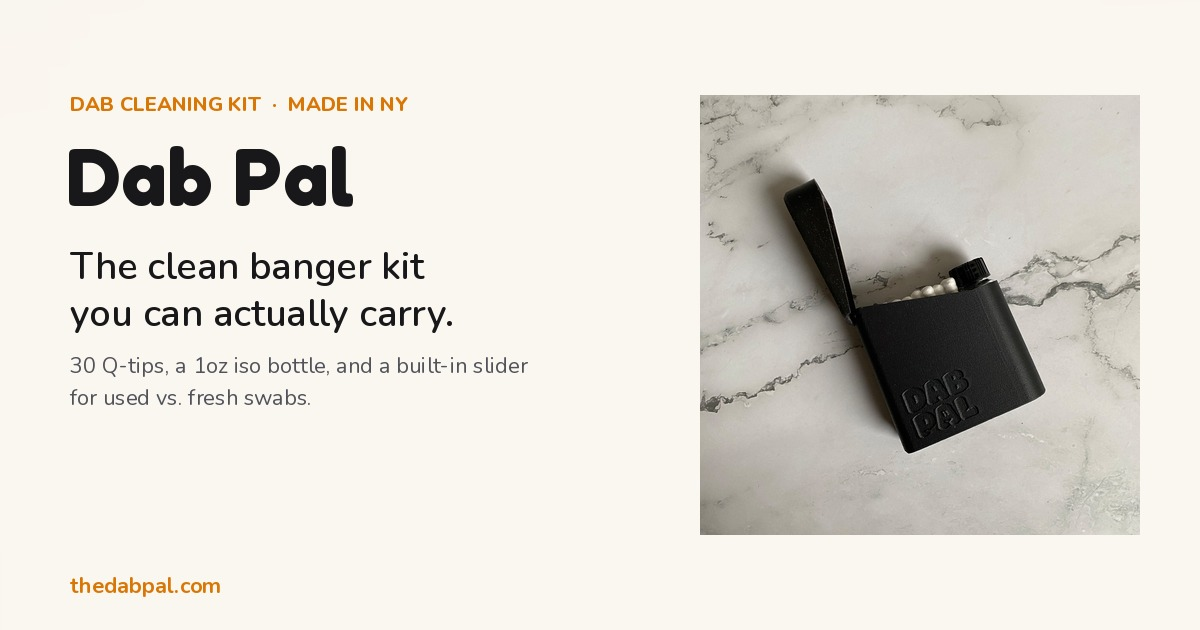
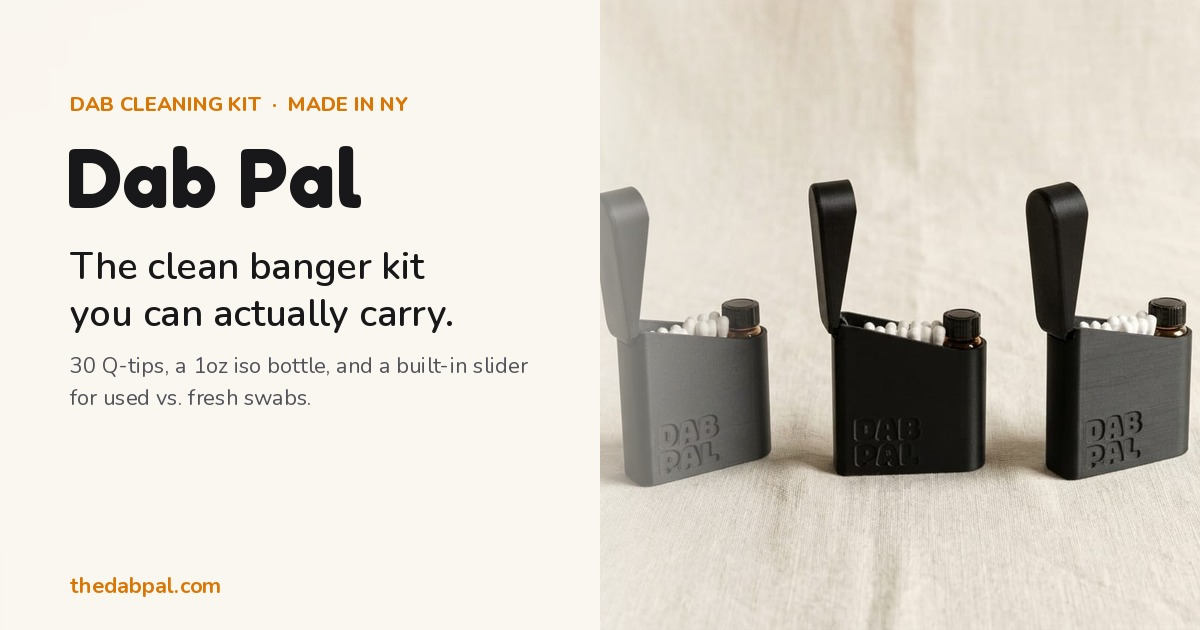
feat(images): real product photo for lineup/OG, drop AI placeholders
Will sent the real trio shot of three Dab Pal cases on linen — way
better than the AI-generated stuff we had standing in.

- public/dab-pal/lineup.png: replaced with the real 1264×848 trio shot.
- public/dab-pal/detail.png: deleted. Was AI and looked it.
- detail-block: image source switched from /detail.png to /hero.jpg
  per Will. object-cover instead of object-contain since the hero is
  wide; fills the dark detail panel cleanly.
- structured-data Product JSON-LD: image array updated to the three
  real assets (product-front, lineup, hero). Google rich-snippets
  will pull from these.
- src/app/opengraph-image.jpg + twitter-image.jpg: regenerated with
  the real lineup photo as the right-side hero, text overlay (brand
  wordmark + tagline + url) on the left with a soft cream gradient
  fade so the copy reads cleanly over the linen edge. Massive upgrade
  over the composed-from-AI previous version.

PDP gallery untouched — those images live in MinIO via Medusa admin
and can be swapped from there when more real shots arrive.

diff --git a/storefront/src/modules/home/components/detail-block/index.tsx b/storefront/src/modules/home/components/detail-block/index.tsx
@@ -17,11 +17,11 @@ export default function DetailBlock() {
         <div className="grid grid-cols-1 small:grid-cols-2 gap-12 small:gap-20 items-center">
           <div className="relative aspect-square w-full bg-zinc-900 rounded-lg overflow-hidden">
             <Image
-              src="/dab-pal/detail.png"
-              alt="Dab Pal product detail showing the case, Q-tips and iso bottle compartments"
+              src="/dab-pal/hero.jpg"
+              alt="Dab Pal portable Q-tip and isopropyl case on a black background"
               fill
               sizes="(max-width: 800px) 100vw, 50vw"
-              className="object-contain p-8"
+              className="object-cover"
             />
           </div>
           <div className="flex flex-col gap-8">

diff --git a/storefront/src/modules/home/components/structured-data/index.tsx b/storefront/src/modules/home/components/structured-data/index.tsx
@@ -36,7 +36,7 @@ const StructuredData = () => {
     image: [
       `${url}/dab-pal/product-front.png`,
       `${url}/dab-pal/lineup.png`,
-      `${url}/dab-pal/detail.png`,
+      `${url}/dab-pal/hero.jpg`,
     ],
     brand: {
       "@type": "Brand",